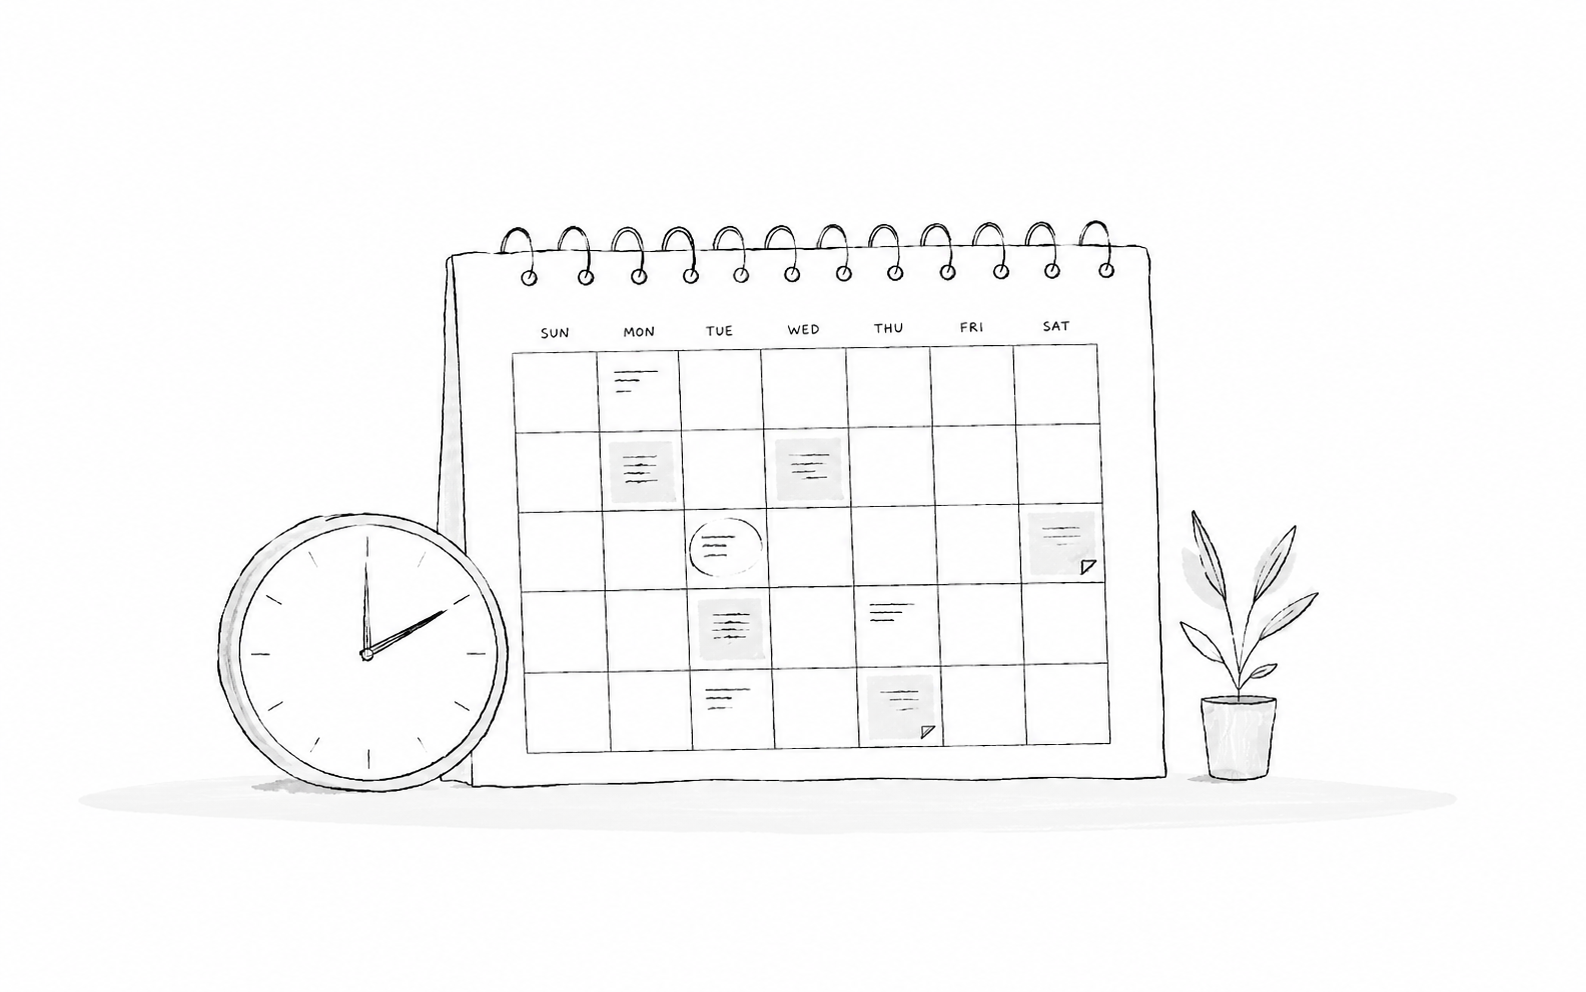
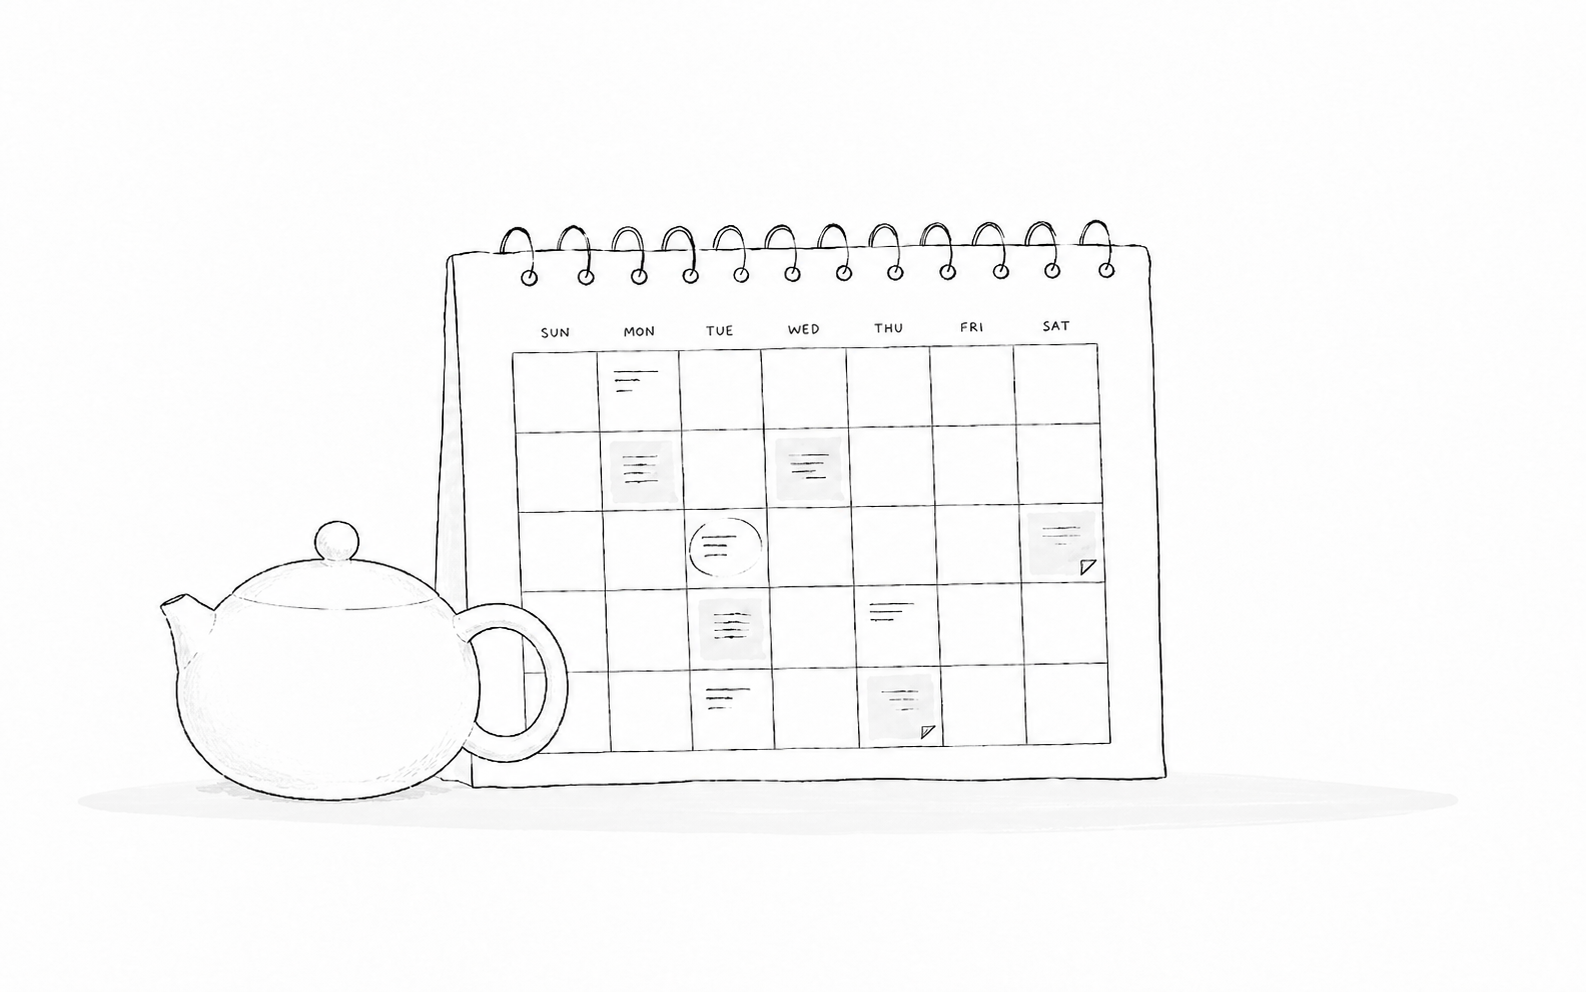
Update empty state image layout

diff --git a/app/routes/app._index.tsx b/app/routes/app._index.tsx
@@ -73,30 +73,40 @@ export default function ClassesIndex() {
 
       {rows.length === 0 ? (
         <s-section>
-          <s-stack direction="inline" gap="large-300" alignItems="center" justifyContent="space-between">
-            <s-stack direction="block" gap="base">
-              <s-heading>Set up your first class</s-heading>
-              <s-paragraph>
-                Pick an existing Shopify product, add dates, capacity,
-                location, and pricing. Customers can then view real-time class
-                availability and check out through Shopify.
-              </s-paragraph>
-              <s-button href="/app/classes/new" variant="primary">
-                Create class
-              </s-button>
-            </s-stack>
+          <s-query-container>
+            <s-stack
+              direction="@container (inline-size > 760px) inline, block"
+              gap="@container (inline-size > 760px) large-300, large-100"
+              alignItems="center"
+              justifyContent="space-between"
+              inlineSize="100%"
+            >
+              <s-box maxInlineSize="640px">
+                <s-stack direction="block" gap="base">
+                  <s-heading>Set up your first class</s-heading>
+                  <s-paragraph>
+                    Pick an existing Shopify product, add dates, capacity,
+                    location, and pricing. Customers can then view real-time
+                    class availability and check out through Shopify.
+                  </s-paragraph>
+                  <s-button href="/app/classes/new" variant="primary">
+                    Create class
+                  </s-button>
+                </s-stack>
+              </s-box>
 
-            <s-box maxInlineSize="520px" accessibilityVisibility="hidden">
-              <s-image
-                src="/te-classes-empty-state.png"
-                alt=""
-                accessibilityRole="presentation"
-                aspectRatio="1586/992"
-                inlineSize="fill"
-                objectFit="contain"
-              />
-            </s-box>
-          </s-stack>
+              <s-box maxInlineSize="520px" accessibilityVisibility="hidden">
+                <s-image
+                  src="/te-classes-empty-state.png"
+                  alt=""
+                  accessibilityRole="presentation"
+                  aspectRatio="1586/992"
+                  inlineSize="fill"
+                  objectFit="contain"
+                />
+              </s-box>
+            </s-stack>
+          </s-query-container>
         </s-section>
       ) : (
         <s-section heading={`${rows.length} class${rows.length === 1 ? "" : "es"}`}>
